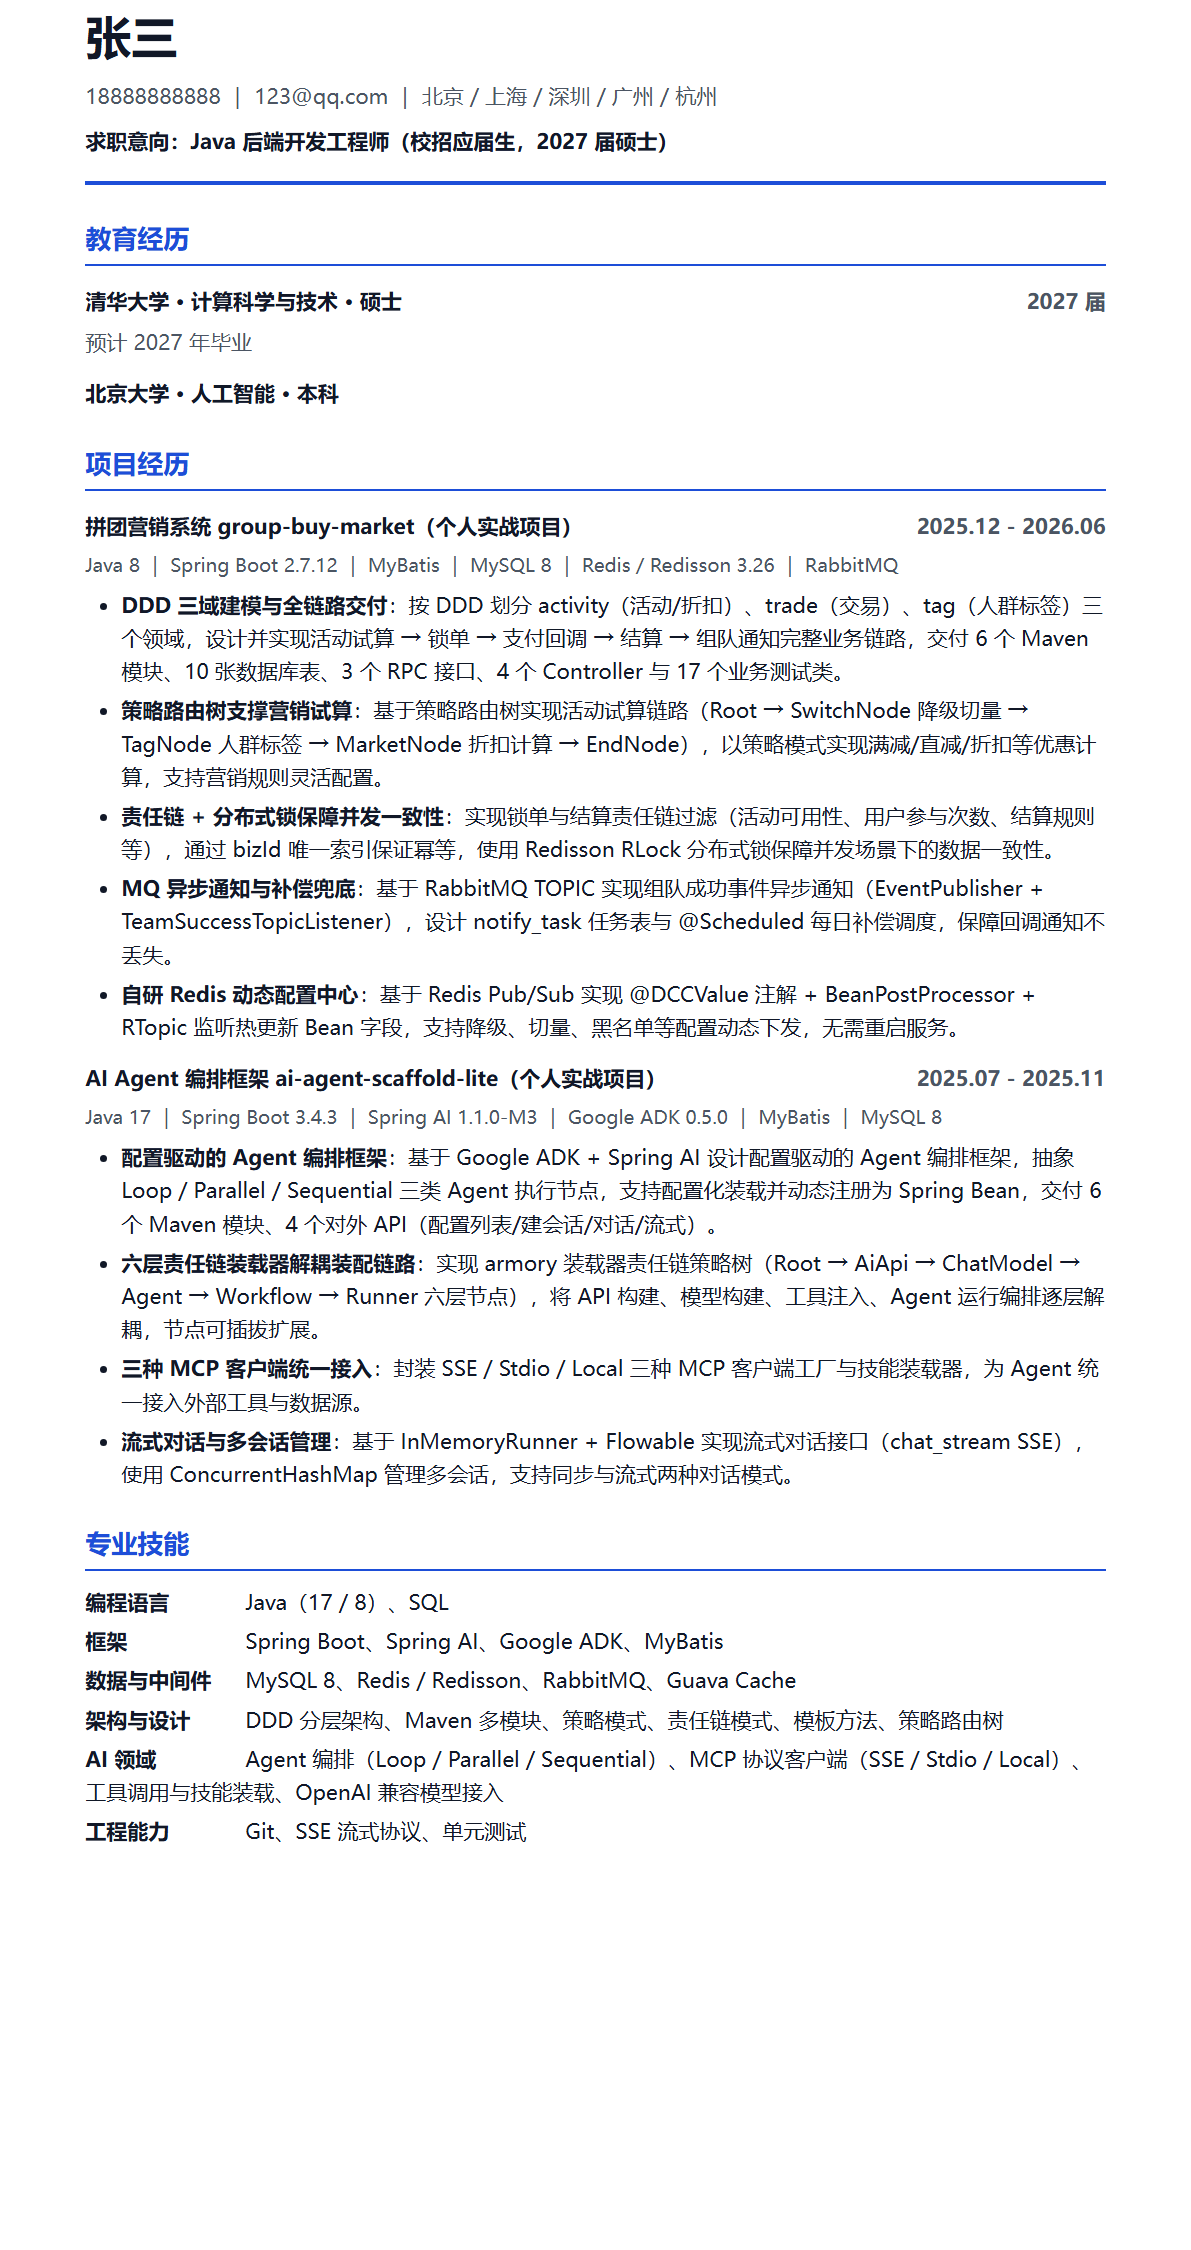
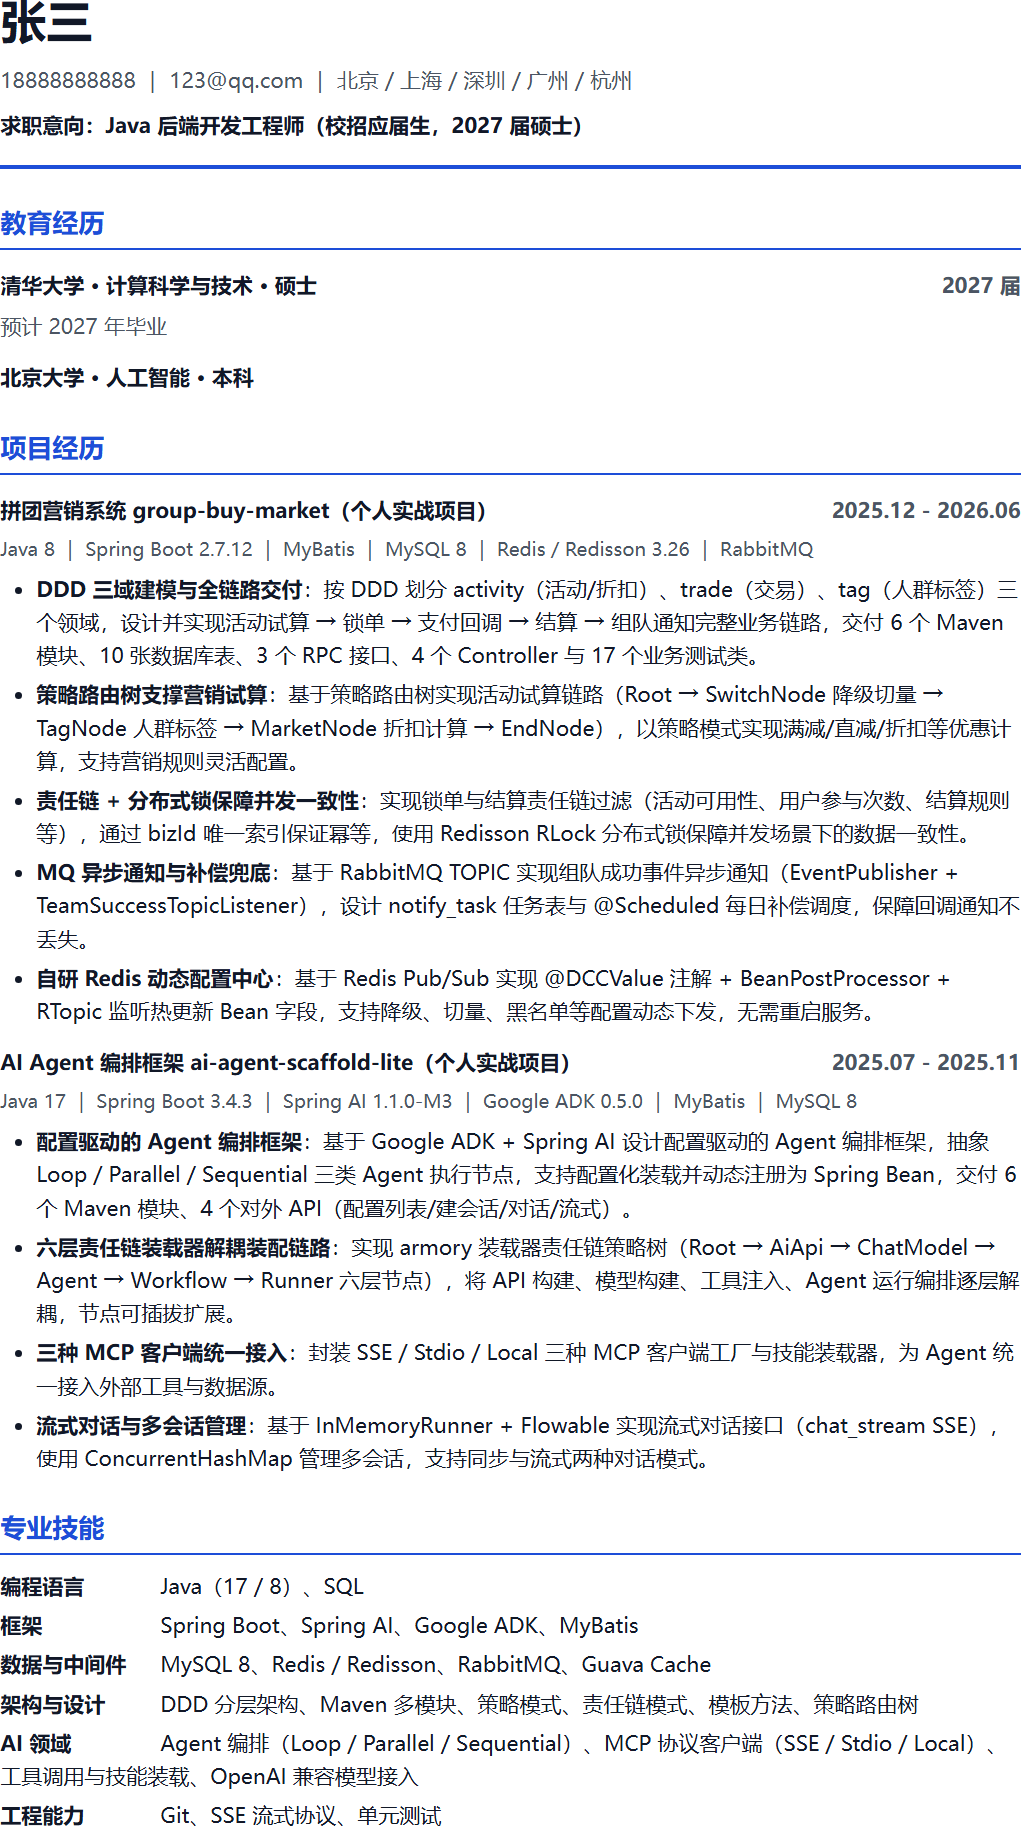
fix: 裁剪示例截图留白并固定并排展示高度

diff --git a/README.md b/README.md
@@ -84,9 +84,16 @@ source_manifest_vN.json                   # 来源清单（版本化）
 
 > 以下示例为演示数据（姓名、联系方式、教育背景均为占位），演示「从工作区生成简历」的完整产出。
 
-| 现代视觉版 | ATS 单列版 |
-| :---: | :---: |
-| ![现代视觉版](docs/images/demo-resume-modern.png) | ![ATS 单列版](docs/images/demo-resume-ats.png) |
+<table>
+  <tr>
+    <td align="center"><img src="docs/images/demo-resume-modern.png" height="480" alt="现代视觉版预览"></td>
+    <td align="center"><img src="docs/images/demo-resume-ats.png" height="480" alt="ATS 单列版预览"></td>
+  </tr>
+  <tr>
+    <td align="center"><strong>现代视觉版</strong></td>
+    <td align="center"><strong>ATS 单列版</strong></td>
+  </tr>
+</table>
 
 📁 [examples/demo-java-backend/](examples/demo-java-backend/)
 
